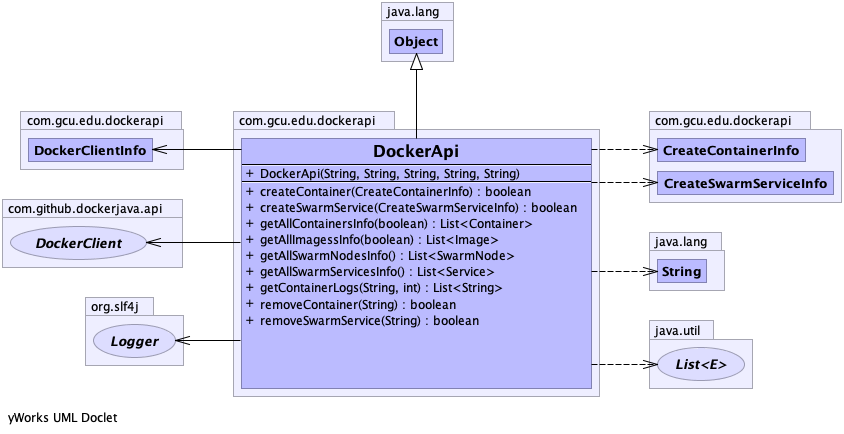
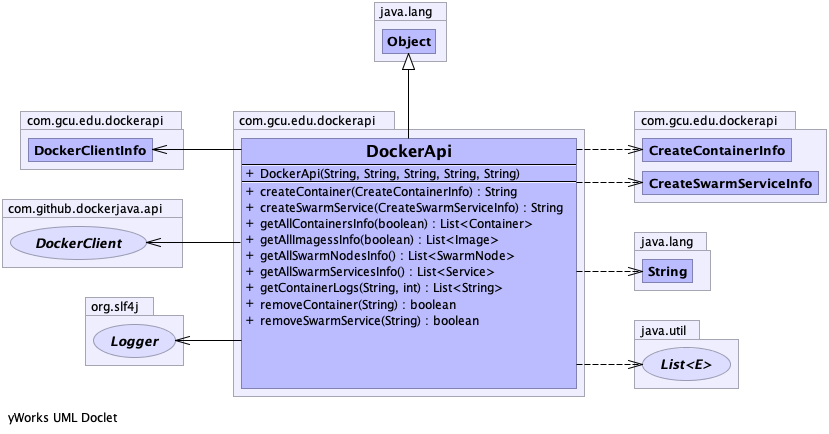
Changed create API's so they return ID created.

diff --git a/java-api/docs/javadoc/com/gcu/edu/dockerapi/DockerApi.html b/java-api/docs/javadoc/com/gcu/edu/dockerapi/DockerApi.html
@@ -2,9 +2,9 @@
 <!-- NewPage -->
 <html lang="en">
 <head>
-<!-- Generated by javadoc (version 1.7.0_45) on Fri Dec 28 10:39:48 MST 2018 -->
+<!-- Generated by javadoc (version 1.7.0_45) on Fri Jan 04 05:50:25 MST 2019 -->
 <title>DockerApi</title>
-<meta name="date" content="2018-12-28">
+<meta name="date" content="2019-01-04">
 <link rel="stylesheet" type="text/css" href="../../../../stylesheet.css" title="Style">
 </head>
 <body>
@@ -98,7 +98,7 @@
 <pre>public class <span class="strong">DockerApi</span>
 extends java.lang.Object</pre>
 <div class="block">Facade Class over the actual Docker Java API.</div>
-<dl><DT>&nbsp;</DT><DD><map name="umlmap2"><area shape="rect" coords="6,407,119,426" href="http://www.yworks.com/" alt=""><area shape="rect" coords="369,138,463,164" href="#" alt=""><area shape="rect" coords="241,165,524,181" href="#DockerApi(java.lang.String, java.lang.String, java.lang.String, java.lang.String, java.lang.String)" alt=""><area shape="rect" coords="241,182,535,199" href="#createContainer(com.gcu.edu.dockerapi.CreateContainerInfo)" alt=""><area shape="rect" coords="241,199,581,215" href="#createSwarmService(com.gcu.edu.dockerapi.CreateSwarmServiceInfo)" alt=""><area shape="rect" coords="241,215,538,231" href="#getAllContainersInfo(boolean)" alt=""><area shape="rect" coords="241,231,504,247" href="#getAllImagessInfo(boolean)" alt=""><area shape="rect" coords="241,247,520,263" href="#getAllSwarmNodesInfo()" alt=""><area shape="rect" coords="241,263,500,279" href="#getAllSwarmServicesInfo()" alt=""><area shape="rect" coords="241,279,508,295" href="#getContainerLogs(java.lang.String, int)" alt=""><area shape="rect" coords="241,295,460,312" href="#removeContainer(java.lang.String)" alt=""><area shape="rect" coords="241,312,483,328" href="#removeSwarmService(java.lang.String)" alt=""><area shape="rect" coords="233,111,381,129" href="package-summary.html" alt=""><area shape="rect" coords="30,138,150,161" href="../../../../com/gcu/edu/dockerapi/DockerClientInfo.html" alt=""><area shape="rect" coords="20,111,168,129" href="../../../../com/gcu/edu/dockerapi/package-summary.html" alt=""><area shape="rect" coords="659,171,830,194" href="../../../../com/gcu/edu/dockerapi/CreateSwarmServiceInfo.html" alt=""><area shape="rect" coords="659,138,803,161" href="../../../../com/gcu/edu/dockerapi/CreateContainerInfo.html" alt=""><area shape="rect" coords="649,111,797,129" href="../../../../com/gcu/edu/dockerapi/package-summary.html" alt=""></map><A NAME="UmlDiagram"></A><CENTER><IMG SRC="DockerApi.png" WIDTH="844" HEIGHT="434" USEMAP="#umlmap2" BORDER="0"></CENTER></DD>
+<dl><DT>&nbsp;</DT><DD><map name="umlmap2"><area shape="rect" coords="6,407,119,426" href="http://www.yworks.com/" alt=""><area shape="rect" coords="361,138,455,164" href="#" alt=""><area shape="rect" coords="241,165,524,181" href="#DockerApi(java.lang.String, java.lang.String, java.lang.String, java.lang.String, java.lang.String)" alt=""><area shape="rect" coords="241,182,521,199" href="#createContainer(com.gcu.edu.dockerapi.CreateContainerInfo)" alt=""><area shape="rect" coords="241,199,567,215" href="#createSwarmService(com.gcu.edu.dockerapi.CreateSwarmServiceInfo)" alt=""><area shape="rect" coords="241,215,538,231" href="#getAllContainersInfo(boolean)" alt=""><area shape="rect" coords="241,231,504,247" href="#getAllImagessInfo(boolean)" alt=""><area shape="rect" coords="241,247,520,263" href="#getAllSwarmNodesInfo()" alt=""><area shape="rect" coords="241,263,500,279" href="#getAllSwarmServicesInfo()" alt=""><area shape="rect" coords="241,279,508,295" href="#getContainerLogs(java.lang.String, int)" alt=""><area shape="rect" coords="241,295,460,312" href="#removeContainer(java.lang.String)" alt=""><area shape="rect" coords="241,312,483,328" href="#removeSwarmService(java.lang.String)" alt=""><area shape="rect" coords="233,111,381,129" href="package-summary.html" alt=""><area shape="rect" coords="30,138,150,161" href="../../../../com/gcu/edu/dockerapi/DockerClientInfo.html" alt=""><area shape="rect" coords="20,111,168,129" href="../../../../com/gcu/edu/dockerapi/package-summary.html" alt=""><area shape="rect" coords="645,171,816,194" href="../../../../com/gcu/edu/dockerapi/CreateSwarmServiceInfo.html" alt=""><area shape="rect" coords="644,138,788,161" href="../../../../com/gcu/edu/dockerapi/CreateContainerInfo.html" alt=""><area shape="rect" coords="634,111,782,129" href="../../../../com/gcu/edu/dockerapi/package-summary.html" alt=""></map><A NAME="UmlDiagram"></A><CENTER><IMG SRC="DockerApi.png" WIDTH="829" HEIGHT="434" USEMAP="#umlmap2" BORDER="0"></CENTER></DD>
 <!-- yWorks UML Doclet   http://www.yworks.com/   b0ac8294d3f86ae0003f3a3a002ea3cf577df824efc6f2... --></dl>
 </li>
 </ul>
@@ -142,13 +142,13 @@ extends java.lang.Object</pre>
 <th class="colLast" scope="col">Method and Description</th>
 </tr>
 <tr class="altColor">
-<td class="colFirst"><code>boolean</code></td>
+<td class="colFirst"><code>java.lang.String</code></td>
 <td class="colLast"><code><strong><a href="../../../../com/gcu/edu/dockerapi/DockerApi.html#createContainer(com.gcu.edu.dockerapi.CreateContainerInfo)">createContainer</a></strong>(<a href="../../../../com/gcu/edu/dockerapi/CreateContainerInfo.html" title="class in com.gcu.edu.dockerapi">CreateContainerInfo</a>&nbsp;info)</code>
 <div class="block">Create a Docker Container.</div>
 </td>
 </tr>
 <tr class="rowColor">
-<td class="colFirst"><code>boolean</code></td>
+<td class="colFirst"><code>java.lang.String</code></td>
 <td class="colLast"><code><strong><a href="../../../../com/gcu/edu/dockerapi/DockerApi.html#createSwarmService(com.gcu.edu.dockerapi.CreateSwarmServiceInfo)">createSwarmService</a></strong>(<a href="../../../../com/gcu/edu/dockerapi/CreateSwarmServiceInfo.html" title="class in com.gcu.edu.dockerapi">CreateSwarmServiceInfo</a>&nbsp;info)</code>
 <div class="block">Create a Docker Swarm Service.</div>
 </td>
@@ -293,10 +293,10 @@ extends java.lang.Object</pre>
 <ul class="blockList">
 <li class="blockList">
 <h4>createSwarmService</h4>
-<pre>public&nbsp;boolean&nbsp;createSwarmService(<a href="../../../../com/gcu/edu/dockerapi/CreateSwarmServiceInfo.html" title="class in com.gcu.edu.dockerapi">CreateSwarmServiceInfo</a>&nbsp;info)</pre>
+<pre>public&nbsp;java.lang.String&nbsp;createSwarmService(<a href="../../../../com/gcu/edu/dockerapi/CreateSwarmServiceInfo.html" title="class in com.gcu.edu.dockerapi">CreateSwarmServiceInfo</a>&nbsp;info)</pre>
 <div class="block">Create a Docker Swarm Service.</div>
 <dl><dt><span class="strong">Parameters:</span></dt><dd><code>info</code> - The Docker Swarm Service (see JavaDoc at com.gcu.edu.dockerapi.CreateSwarmServiceInfo).</dd>
-<dt><span class="strong">Returns:</span></dt><dd>True if the Service was created else returns false if Service was not created.</dd></dl>
+<dt><span class="strong">Returns:</span></dt><dd>Service ID else returns null if Service was not created.</dd></dl>
 </li>
 </ul>
 <a name="createContainer(com.gcu.edu.dockerapi.CreateContainerInfo)">
@@ -305,10 +305,10 @@ extends java.lang.Object</pre>
 <ul class="blockList">
 <li class="blockList">
 <h4>createContainer</h4>
-<pre>public&nbsp;boolean&nbsp;createContainer(<a href="../../../../com/gcu/edu/dockerapi/CreateContainerInfo.html" title="class in com.gcu.edu.dockerapi">CreateContainerInfo</a>&nbsp;info)</pre>
+<pre>public&nbsp;java.lang.String&nbsp;createContainer(<a href="../../../../com/gcu/edu/dockerapi/CreateContainerInfo.html" title="class in com.gcu.edu.dockerapi">CreateContainerInfo</a>&nbsp;info)</pre>
 <div class="block">Create a Docker Container.</div>
 <dl><dt><span class="strong">Parameters:</span></dt><dd><code>info</code> - The Docker Container (see JavaDoc at com.gcu.edu.dockerapi.CreateContainerInfo).</dd>
-<dt><span class="strong">Returns:</span></dt><dd>True if the Container was created else returns false if Container was not created.</dd></dl>
+<dt><span class="strong">Returns:</span></dt><dd>Container ID else returns null if Container was not created.</dd></dl>
 </li>
 </ul>
 <a name="removeContainer(java.lang.String)">

diff --git a/java-api/docs/javadoc/com/gcu/edu/dockerapi/package-tree.html b/java-api/docs/javadoc/com/gcu/edu/dockerapi/package-tree.html
@@ -2,9 +2,9 @@
 <!-- NewPage -->
 <html lang="en">
 <head>
-<!-- Generated by javadoc (version 1.7.0_45) on Fri Dec 28 10:39:48 MST 2018 -->
+<!-- Generated by javadoc (version 1.7.0_45) on Fri Jan 04 05:50:25 MST 2019 -->
 <title>com.gcu.edu.dockerapi Class Hierarchy</title>
-<meta name="date" content="2018-12-28">
+<meta name="date" content="2019-01-04">
 <link rel="stylesheet" type="text/css" href="../../../../stylesheet.css" title="Style">
 </head>
 <body>

diff --git a/java-api/docs/javadoc/com/gcu/edu/test/package-tree.html b/java-api/docs/javadoc/com/gcu/edu/test/package-tree.html
@@ -2,9 +2,9 @@
 <!-- NewPage -->
 <html lang="en">
 <head>
-<!-- Generated by javadoc (version 1.7.0_45) on Fri Dec 28 10:39:48 MST 2018 -->
+<!-- Generated by javadoc (version 1.7.0_45) on Fri Jan 04 05:50:25 MST 2019 -->
 <title>com.gcu.edu.test Class Hierarchy</title>
-<meta name="date" content="2018-12-28">
+<meta name="date" content="2019-01-04">
 <link rel="stylesheet" type="text/css" href="../../../../stylesheet.css" title="Style">
 </head>
 <body>

diff --git a/java-api/docs/javadoc/com/gcu/edu/dockerapi/CreateSwarmServiceInfo.html b/java-api/docs/javadoc/com/gcu/edu/dockerapi/CreateSwarmServiceInfo.html
@@ -2,9 +2,9 @@
 <!-- NewPage -->
 <html lang="en">
 <head>
-<!-- Generated by javadoc (version 1.7.0_45) on Fri Dec 28 10:39:48 MST 2018 -->
+<!-- Generated by javadoc (version 1.7.0_45) on Fri Jan 04 05:50:25 MST 2019 -->
 <title>CreateSwarmServiceInfo</title>
-<meta name="date" content="2018-12-28">
+<meta name="date" content="2019-01-04">
 <link rel="stylesheet" type="text/css" href="../../../../stylesheet.css" title="Style">
 </head>
 <body>

diff --git a/java-api/docs/javadoc/com/gcu/edu/dockerapi/package-frame.html b/java-api/docs/javadoc/com/gcu/edu/dockerapi/package-frame.html
@@ -2,9 +2,9 @@
 <!-- NewPage -->
 <html lang="en">
 <head>
-<!-- Generated by javadoc (version 1.7.0_45) on Fri Dec 28 10:39:48 MST 2018 -->
+<!-- Generated by javadoc (version 1.7.0_45) on Fri Jan 04 05:50:25 MST 2019 -->
 <title>com.gcu.edu.dockerapi</title>
-<meta name="date" content="2018-12-28">
+<meta name="date" content="2019-01-04">
 <link rel="stylesheet" type="text/css" href="../../../../stylesheet.css" title="Style">
 </head>
 <body>

diff --git a/java-api/docs/javadoc/com/gcu/edu/dockerapi/package-summary.html b/java-api/docs/javadoc/com/gcu/edu/dockerapi/package-summary.html
@@ -2,9 +2,9 @@
 <!-- NewPage -->
 <html lang="en">
 <head>
-<!-- Generated by javadoc (version 1.7.0_45) on Fri Dec 28 10:39:48 MST 2018 -->
+<!-- Generated by javadoc (version 1.7.0_45) on Fri Jan 04 05:50:25 MST 2019 -->
 <title>com.gcu.edu.dockerapi</title>
-<meta name="date" content="2018-12-28">
+<meta name="date" content="2019-01-04">
 <link rel="stylesheet" type="text/css" href="../../../../stylesheet.css" title="Style">
 </head>
 <body>

diff --git a/java-api/docs/javadoc/com/gcu/edu/dockerapi/CreateContainerInfo.html b/java-api/docs/javadoc/com/gcu/edu/dockerapi/CreateContainerInfo.html
@@ -2,9 +2,9 @@
 <!-- NewPage -->
 <html lang="en">
 <head>
-<!-- Generated by javadoc (version 1.7.0_45) on Fri Dec 28 10:39:48 MST 2018 -->
+<!-- Generated by javadoc (version 1.7.0_45) on Fri Jan 04 05:50:25 MST 2019 -->
 <title>CreateContainerInfo</title>
-<meta name="date" content="2018-12-28">
+<meta name="date" content="2019-01-04">
 <link rel="stylesheet" type="text/css" href="../../../../stylesheet.css" title="Style">
 </head>
 <body>

diff --git a/java-api/docs/javadoc/com/gcu/edu/dockerapi/DockerClientInfo.html b/java-api/docs/javadoc/com/gcu/edu/dockerapi/DockerClientInfo.html
@@ -2,9 +2,9 @@
 <!-- NewPage -->
 <html lang="en">
 <head>
-<!-- Generated by javadoc (version 1.7.0_45) on Fri Dec 28 10:39:48 MST 2018 -->
+<!-- Generated by javadoc (version 1.7.0_45) on Fri Jan 04 05:50:25 MST 2019 -->
 <title>DockerClientInfo</title>
-<meta name="date" content="2018-12-28">
+<meta name="date" content="2019-01-04">
 <link rel="stylesheet" type="text/css" href="../../../../stylesheet.css" title="Style">
 </head>
 <body>

diff --git a/java-api/docs/javadoc/com/gcu/edu/test/package-frame.html b/java-api/docs/javadoc/com/gcu/edu/test/package-frame.html
@@ -2,9 +2,9 @@
 <!-- NewPage -->
 <html lang="en">
 <head>
-<!-- Generated by javadoc (version 1.7.0_45) on Fri Dec 28 10:39:48 MST 2018 -->
+<!-- Generated by javadoc (version 1.7.0_45) on Fri Jan 04 05:50:25 MST 2019 -->
 <title>com.gcu.edu.test</title>
-<meta name="date" content="2018-12-28">
+<meta name="date" content="2019-01-04">
 <link rel="stylesheet" type="text/css" href="../../../../stylesheet.css" title="Style">
 </head>
 <body>

diff --git a/java-api/docs/javadoc/com/gcu/edu/test/package-summary.html b/java-api/docs/javadoc/com/gcu/edu/test/package-summary.html
@@ -2,9 +2,9 @@
 <!-- NewPage -->
 <html lang="en">
 <head>
-<!-- Generated by javadoc (version 1.7.0_45) on Fri Dec 28 10:39:48 MST 2018 -->
+<!-- Generated by javadoc (version 1.7.0_45) on Fri Jan 04 05:50:25 MST 2019 -->
 <title>com.gcu.edu.test</title>
-<meta name="date" content="2018-12-28">
+<meta name="date" content="2019-01-04">
 <link rel="stylesheet" type="text/css" href="../../../../stylesheet.css" title="Style">
 </head>
 <body>

diff --git a/java-api/docs/javadoc/constant-values.html b/java-api/docs/javadoc/constant-values.html
@@ -2,9 +2,9 @@
 <!-- NewPage -->
 <html lang="en">
 <head>
-<!-- Generated by javadoc (version 1.7.0_45) on Fri Dec 28 10:39:48 MST 2018 -->
+<!-- Generated by javadoc (version 1.7.0_45) on Fri Jan 04 05:50:25 MST 2019 -->
 <title>Constant Field Values</title>
-<meta name="date" content="2018-12-28">
+<meta name="date" content="2019-01-04">
 <link rel="stylesheet" type="text/css" href="stylesheet.css" title="Style">
 </head>
 <body>

diff --git a/java-api/docs/javadoc/com/gcu/edu/test/Play.html b/java-api/docs/javadoc/com/gcu/edu/test/Play.html
@@ -2,9 +2,9 @@
 <!-- NewPage -->
 <html lang="en">
 <head>
-<!-- Generated by javadoc (version 1.7.0_45) on Fri Dec 28 10:39:48 MST 2018 -->
+<!-- Generated by javadoc (version 1.7.0_45) on Fri Jan 04 05:50:25 MST 2019 -->
 <title>Play</title>
-<meta name="date" content="2018-12-28">
+<meta name="date" content="2019-01-04">
 <link rel="stylesheet" type="text/css" href="../../../../stylesheet.css" title="Style">
 </head>
 <body>
